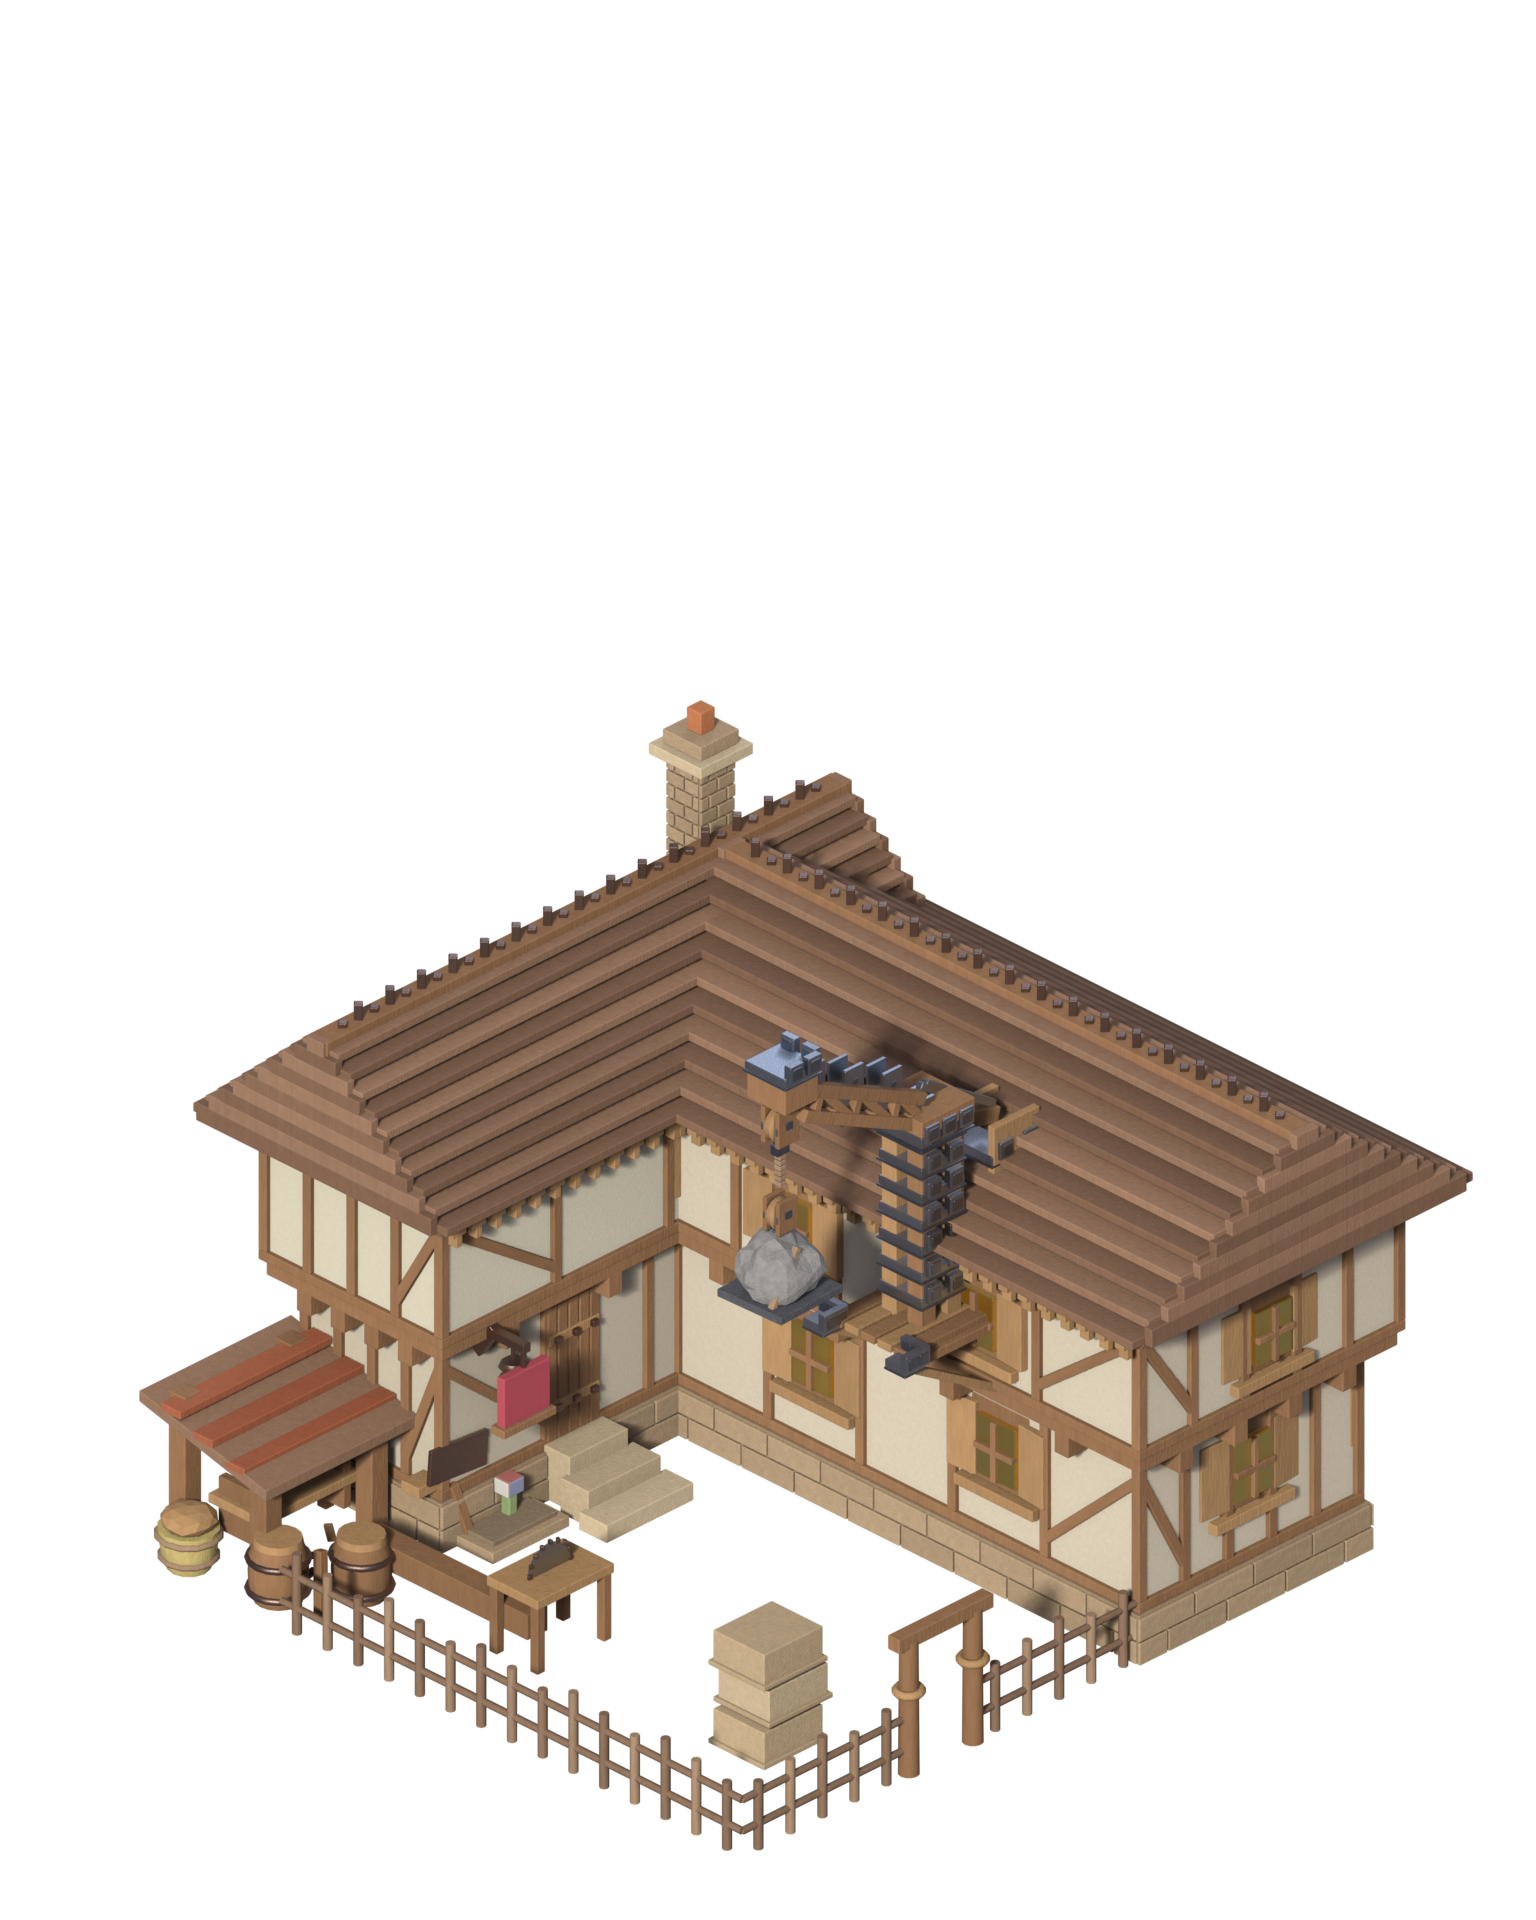
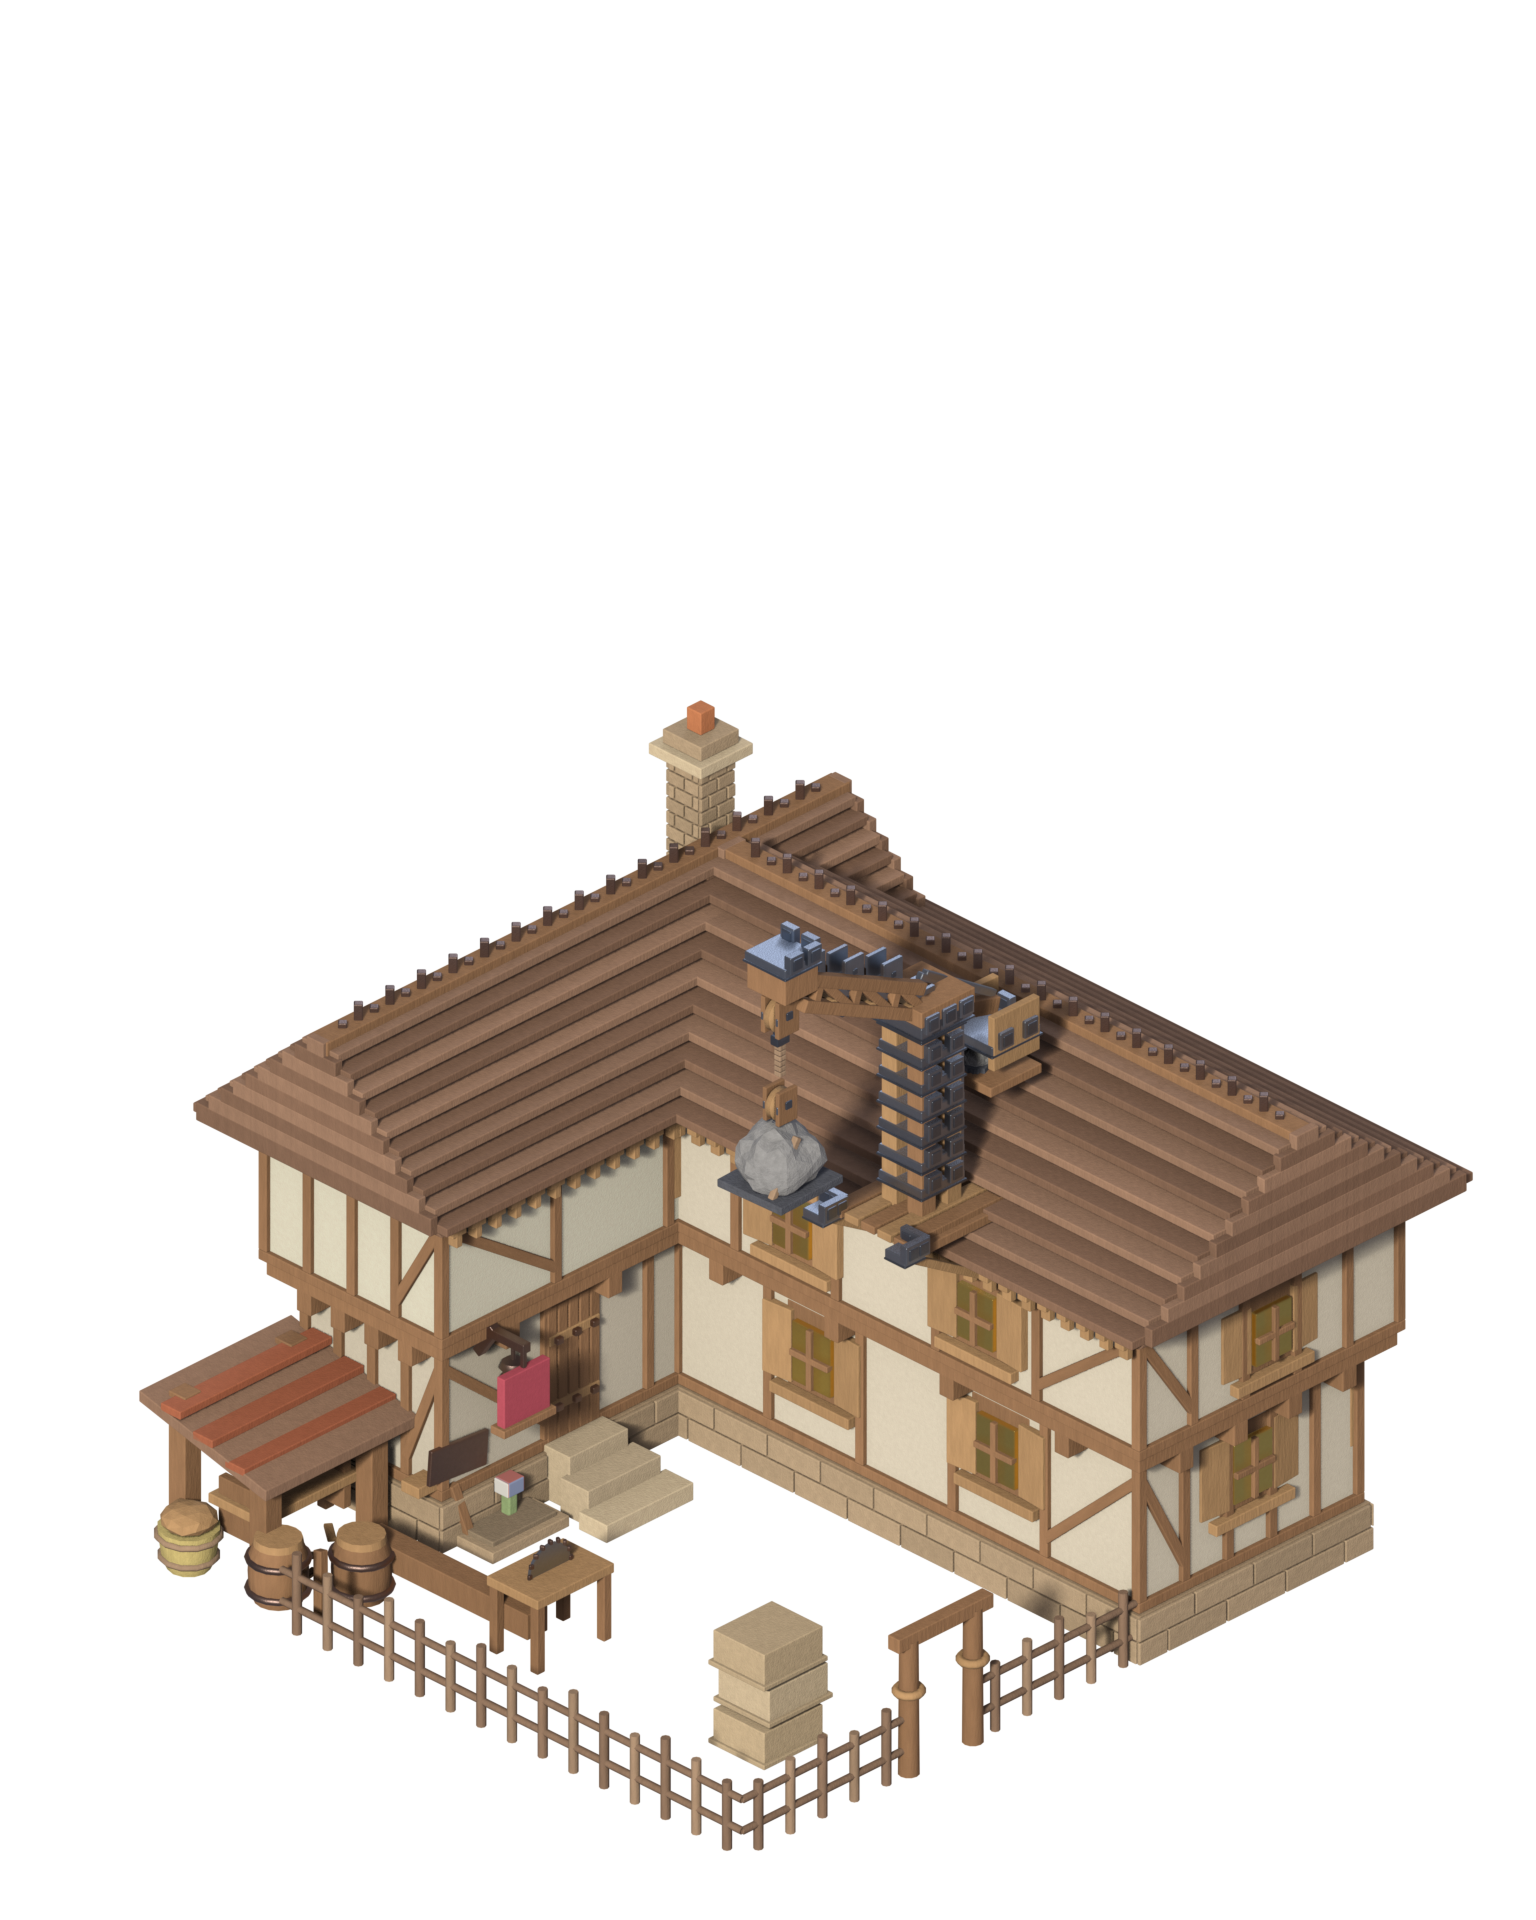
Builder Camp: crane platform raised out of the roof, not the wall
deck_z moved from window-band height (was crossing right through
bcwinB3) up past the eave — the platform now reads as coming out of
the roof the way it's meant to, with the wall bracket underneath it
clear of every window.

Changed region(s): [[0.4688, 0.4688, 0.6875, 0.7188]]

diff --git a/tool/blender/render_building.py b/tool/blender/render_building.py
@@ -5808,8 +5808,14 @@ def builder_camp(w, h):
     # holds it, but the crane itself is meant to stick out through the
     # roof, the way the roof-mounted versions did, just launched off this
     # wall gantry instead of a dormer.
+    # deck_z raised from 1.85 (window-band height — the beam was crossing
+    # right through bcwinB3) up past the eave (roof_z=2.3): the platform
+    # itself needs to read as coming out of the ROOF, not the wall, which
+    # a window-height deck can't do regardless of how tall the mast above
+    # it is (user 2026-08-19, a photo of exactly this: "Die Plattform soll
+    # doch aus dem Dach kommen und nicht aus der Wand/Fenster").
     gan_x, gan_y = face_b, -1.1
-    deck_z = 1.85
+    deck_z = 2.55
     deck_out = 0.4
     deck_cx = gan_x - deck_out
     hw = 0.32
